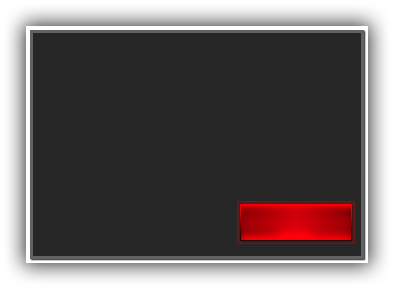
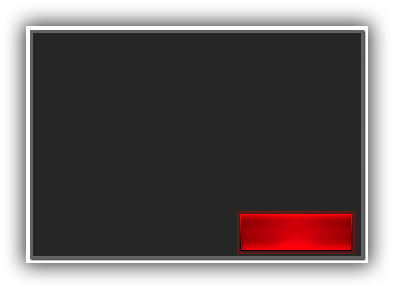
More UI work.

Changed region(s): [[0.5772, 0.6828, 0.9114, 0.9]]

diff --git a/public/js/map.js b/public/js/map.js
@@ -8,6 +8,7 @@ var Map = function(topPlayerId, bottomPlayerId) {
 };
 
 Map.prototype = {
+  active    : undefined,
   robots    : [],
   towers    : [],
   lasers    : [],
@@ -22,11 +23,42 @@ Map.prototype = {
       var position = 1 + Math.floor(x / 40) + (20 * Math.floor((y - 117) / 160));
 
       if (y >= 117 && y <= 477 && this.positions[position]) {
-        Game.send({
-          'action'   : 'create_tower',
-          'position' : position
-        });
+        var x = 4 + (((position - 1) % 20) * 40);
+        var y = 125 + (160 * Math.round((position - ((position - 1) % 20)) / 20));
+
+        this.active = position;
+
+        var
+        element = $('#add-tower')[0];
+        element.style.display = 'block';
+        element.style.top  = (y - 44) + 'px';
+        element.style.left = (x - 4) + 'px';
       }
+    }.bind(this));
+
+    $('#add-tower a')[0].addEventListener('click', function(event) {
+      Game.send({
+        'action'   : 'create_tower',
+        'position' : this.active
+      });
+
+      this.active = undefined;
+
+      $('#add-tower')[0].style.display = 'none';
+
+      event.preventDefault();
+    }.bind(this));
+    $('#add-tower a')[0].addEventListener('click', function(event) {
+      Game.send({
+        'action'   : 'create_tower',
+        'position' : this.active
+      });
+
+      this.active = undefined;
+
+      $('#add-tower')[0].style.display = 'none';
+
+      event.preventDefault();
     }.bind(this));
   },
 
@@ -38,6 +70,9 @@ Map.prototype = {
     this.images[1].src = '/images/robot-1.png';
     this.images[2] = new Image();
     this.images[2].src = '/images/robot-2.png';
+
+    this.images[100] = new Image();
+    this.images[100].src = '/images/active-tower-slot.png';
   },
 
   setupPositions: function() {
@@ -105,6 +140,12 @@ Map.prototype = {
       }
     }
 
+    if (this.active) {
+      var x = 4 + (((this.active - 1) % 20) * 40);
+      var y = 125 + (160 * Math.round((this.active - ((this.active - 1) % 20)) / 20));
+
+      this.context.drawImage(this.images[100], x, y);
+    }
   },
 
   findRobotIn: function(x, y, radius, session_id) {

diff --git a/public/css/screen.css b/public/css/screen.css
@@ -184,7 +184,7 @@ canvas {
   position: absolute;
   color: #FFF;
   right: 44px;
-  bottom: 50px;
+  bottom: 40px;
   width: 110px;
   height: 35px;
   font-size: 14px;
@@ -203,4 +203,25 @@ canvas {
   position: absolute;
   top: 0;
   left: 0;
+}
+
+#add-tower {
+  position: absolute;
+  background: url(/images/place-tower.png);
+  width: 82px;
+  height: 46px;
+  z-index: 128;
+}
+
+#add-tower a {
+  position: absolute;
+  top: 4px;
+  left: 8px;
+  width: 32px;
+  height: 32px;
+  display: block;
+}
+
+#add-tower a + a {
+  left: 42px;
 }

diff --git a/public/index.html b/public/index.html
@@ -20,6 +20,11 @@
 <div id="map">
   <canvas width="800" height="600"></canvas>
 
+  <div id="add-tower">
+    <a href="#" id="add-tower-1"></a>
+    <a href="#" id="add-tower-2"></a>
+  </div>
+
   <div id="player-1" class="player">
     <span class="lives">10</span>
     <a href="#" class="add-robot-1"></a>
